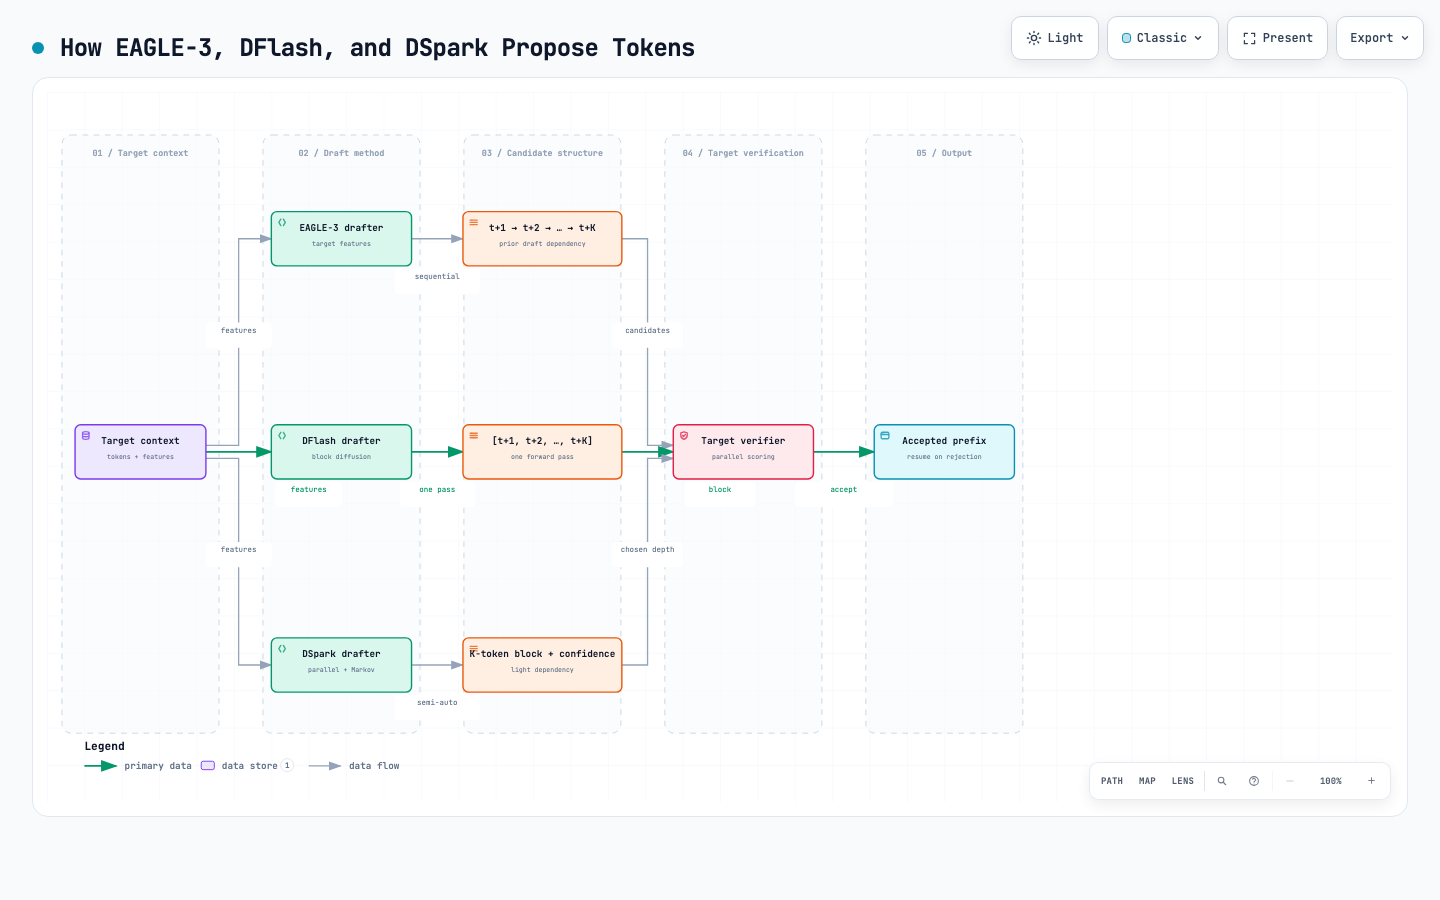
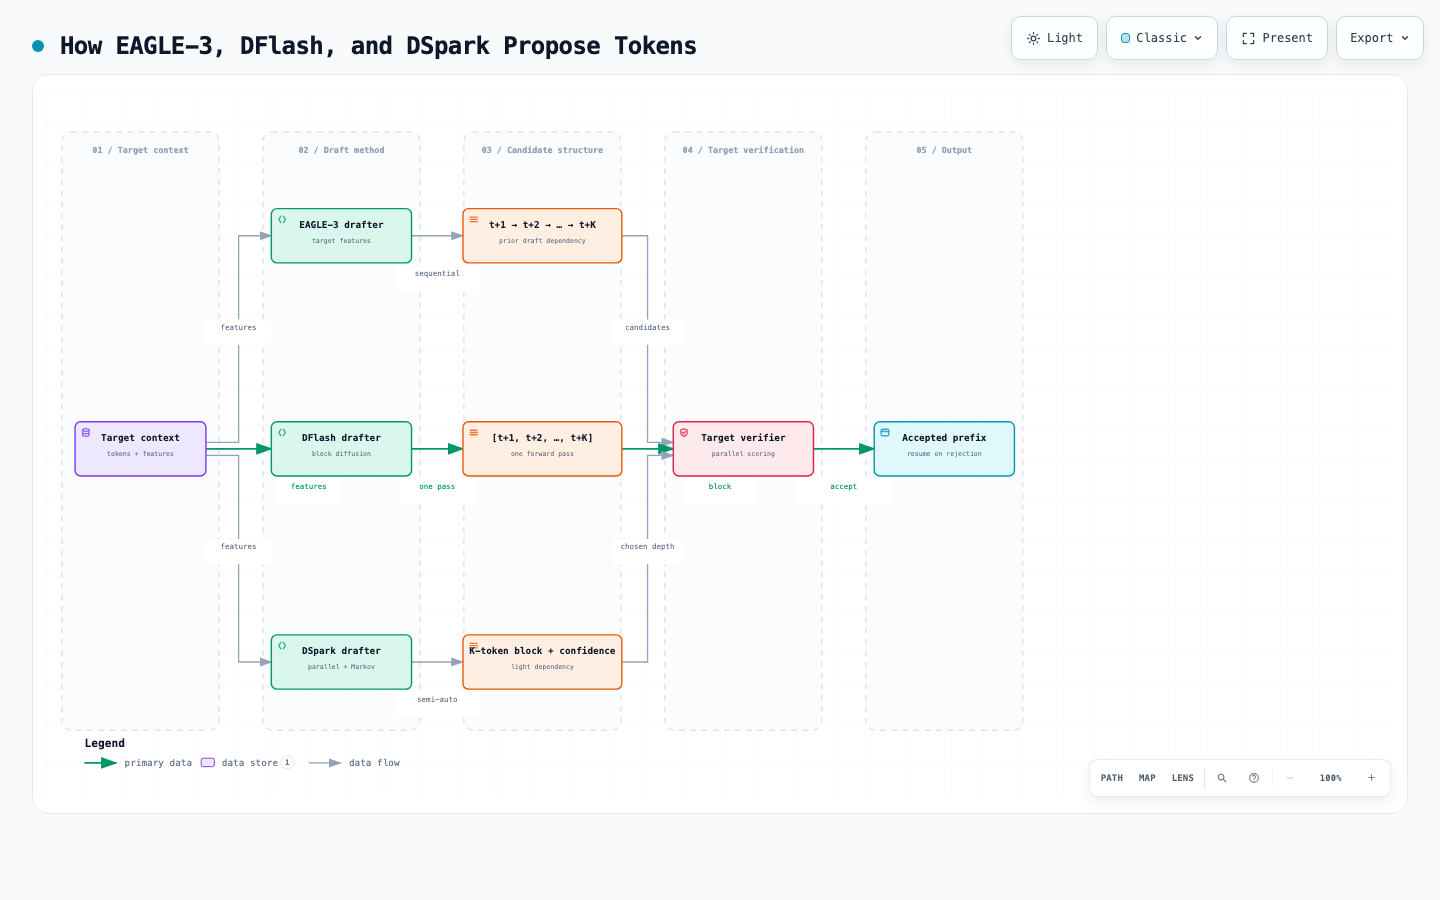
docs: add compact publication PNG for drafter comparison

diff --git a/docs/blog/specdec_dflash_dspark_technical_blog_submission.html b/docs/blog/specdec_dflash_dspark_technical_blog_submission.html
@@ -7,7 +7,7 @@
   <style>
     :root{--bg:#0d1117;--panel:#161b22;--panel2:#1f2630;--text:#e6edf3;--muted:#9da7b3;--line:#30363d;--green:#76b900;--green2:#b7df6b;--blue:#58a6ff;--amber:#d29922;--red:#f85149;--gray:#8b949e;--code:#0b0f14;--shadow:0 16px 44px rgba(0,0,0,.3)}
     @media(prefers-color-scheme:light){:root{--bg:#f6f8fa;--panel:#fff;--panel2:#f0f4f8;--text:#1f2328;--muted:#59636e;--line:#d0d7de;--green:#4f7f00;--green2:#466d08;--blue:#0969da;--amber:#9a6700;--red:#cf222e;--gray:#656d76;--code:#f6f8fa;--shadow:0 12px 35px rgba(31,35,40,.1)}}
-    *{box-sizing:border-box}html{scroll-behavior:smooth}body{margin:0;background:var(--bg);color:var(--text);font:16px/1.62 -apple-system,BlinkMacSystemFont,"Segoe UI",sans-serif}.wrap{max-width:980px;margin:auto;padding:28px 22px 80px}a{color:var(--blue)}h1{font-size:clamp(2rem,5vw,3.55rem);line-height:1.05;letter-spacing:-.045em;margin:.3em 0}h2{font-size:1.65rem;margin:2.2em 0 .7em;border-bottom:1px solid var(--line);padding-bottom:.35em}h3{font-size:1.18rem;margin:1.8em 0 .55em}h4{margin:1.35em 0 .35em}p{margin:.65em 0}.sub{color:var(--muted);font-size:.93rem}.kicker{color:var(--green2);font-weight:750;letter-spacing:.11em;text-transform:uppercase;font-size:.76rem}.hero{padding:42px 0 24px}.statusbar{display:flex;gap:8px;flex-wrap:wrap;margin:18px 0}.pill{border:1px solid var(--line);border-radius:999px;padding:5px 10px;font-size:.78rem;font-weight:700}.draft{color:var(--amber);border-color:color-mix(in srgb,var(--amber) 55%,var(--line))}.ready{color:var(--green2)}.pending{color:var(--amber)}.internal{color:var(--red)}.callout,.card{background:var(--panel);border:1px solid var(--line);border-radius:12px;padding:16px 18px;margin:15px 0;box-shadow:var(--shadow)}.callout{border-left:4px solid var(--green)}.warn{border-left-color:var(--amber)}.danger{border-left-color:var(--red)}.grid{display:grid;grid-template-columns:repeat(auto-fit,minmax(240px,1fr));gap:12px}.small{font-size:.86rem;color:var(--muted)}table{width:100%;border-collapse:collapse;margin:14px 0 22px;font-size:.88rem;display:block;overflow-x:auto}th,td{padding:9px 10px;border:1px solid var(--line);vertical-align:top;text-align:left}th{background:var(--panel2);white-space:nowrap}tr:nth-child(even) td{background:color-mix(in srgb,var(--panel) 70%,transparent)}code,pre{font-family:ui-monospace,SFMono-Regular,Menlo,monospace}code{background:var(--code);border:1px solid var(--line);border-radius:5px;padding:.1em .35em}pre{background:var(--code);border:1px solid var(--line);border-radius:10px;padding:14px;overflow:auto;font-size:.84rem}pre code{border:0;padding:0}.label{font-size:.72rem;text-transform:uppercase;letter-spacing:.08em;font-weight:800}.todo{color:var(--amber)}.ok{color:var(--green2)}.no{color:var(--red)}ul,ol{padding-left:1.3rem}li+li{margin-top:.32em}.asset{border-left:3px solid var(--blue)}.figure{background:var(--panel);border:1px solid var(--line);border-radius:14px;padding:14px;margin:20px 0}.figure svg{width:100%;height:auto;display:block}.caption{font-size:.85rem;color:var(--muted);margin-top:10px}.section-tag{display:inline-block;color:var(--green2);font-weight:800;font-size:.72rem;text-transform:uppercase;letter-spacing:.08em}.article{border-top:4px solid var(--green);margin-top:24px;padding-top:10px}.article-title{font-size:2rem;line-height:1.15;font-weight:800;letter-spacing:-.025em;margin:16px 0}.lede{font-size:1.12rem;color:color-mix(in srgb,var(--text) 88%,var(--muted))}.hl{background:color-mix(in srgb,var(--green) 12%,var(--panel));border:1px solid color-mix(in srgb,var(--green) 50%,var(--line));border-radius:12px;padding:16px 18px;margin:20px 0;font-weight:650}.split{display:grid;grid-template-columns:1fr 1fr;gap:14px}.check{list-style:none;padding:0}.check li{padding:7px 0 7px 25px;border-bottom:1px solid var(--line);position:relative}.check li:before{content:"□";position:absolute;left:2px;color:var(--amber);font-weight:900}.muted{color:var(--muted)}.footer{margin-top:48px;padding-top:18px;border-top:1px solid var(--line);color:var(--muted);font-size:.82rem}@media(max-width:680px){.split{grid-template-columns:1fr}.wrap{padding:20px 14px 60px}th,td{padding:7px}.hero{padding-top:24px}}@media print{body{background:#fff;color:#111}.wrap{max-width:none}.card,.callout,.figure{box-shadow:none;break-inside:avoid}a{color:#0645ad}.internal-only{break-before:page}}
+    *{box-sizing:border-box}html{scroll-behavior:smooth}body{margin:0;background:var(--bg);color:var(--text);font:16px/1.62 -apple-system,BlinkMacSystemFont,"Segoe UI",sans-serif}.wrap{max-width:980px;margin:auto;padding:28px 22px 80px}a{color:var(--blue)}h1{font-size:clamp(2rem,5vw,3.55rem);line-height:1.05;letter-spacing:-.045em;margin:.3em 0}h2{font-size:1.65rem;margin:2.2em 0 .7em;border-bottom:1px solid var(--line);padding-bottom:.35em}h3{font-size:1.18rem;margin:1.8em 0 .55em}h4{margin:1.35em 0 .35em}p{margin:.65em 0}.sub{color:var(--muted);font-size:.93rem}.kicker{color:var(--green2);font-weight:750;letter-spacing:.11em;text-transform:uppercase;font-size:.76rem}.hero{padding:42px 0 24px}.statusbar{display:flex;gap:8px;flex-wrap:wrap;margin:18px 0}.pill{border:1px solid var(--line);border-radius:999px;padding:5px 10px;font-size:.78rem;font-weight:700}.draft{color:var(--amber);border-color:color-mix(in srgb,var(--amber) 55%,var(--line))}.ready{color:var(--green2)}.pending{color:var(--amber)}.internal{color:var(--red)}.callout,.card{background:var(--panel);border:1px solid var(--line);border-radius:12px;padding:16px 18px;margin:15px 0;box-shadow:var(--shadow)}.callout{border-left:4px solid var(--green)}.warn{border-left-color:var(--amber)}.danger{border-left-color:var(--red)}.grid{display:grid;grid-template-columns:repeat(auto-fit,minmax(240px,1fr));gap:12px}.small{font-size:.86rem;color:var(--muted)}table{width:100%;border-collapse:collapse;margin:14px 0 22px;font-size:.88rem;display:block;overflow-x:auto}th,td{padding:9px 10px;border:1px solid var(--line);vertical-align:top;text-align:left}th{background:var(--panel2);white-space:nowrap}tr:nth-child(even) td{background:color-mix(in srgb,var(--panel) 70%,transparent)}code,pre{font-family:ui-monospace,SFMono-Regular,Menlo,monospace}code{background:var(--code);border:1px solid var(--line);border-radius:5px;padding:.1em .35em}pre{background:var(--code);border:1px solid var(--line);border-radius:10px;padding:14px;overflow:auto;font-size:.84rem}pre code{border:0;padding:0}.label{font-size:.72rem;text-transform:uppercase;letter-spacing:.08em;font-weight:800}.todo{color:var(--amber)}.ok{color:var(--green2)}.no{color:var(--red)}ul,ol{padding-left:1.3rem}li+li{margin-top:.32em}.asset{border-left:3px solid var(--blue)}.figure{background:var(--panel);border:1px solid var(--line);border-radius:14px;padding:14px;margin:20px 0}.figure img{width:100%;height:auto;display:block}.caption{font-size:.85rem;color:var(--muted);margin-top:10px}.section-tag{display:inline-block;color:var(--green2);font-weight:800;font-size:.72rem;text-transform:uppercase;letter-spacing:.08em}.article{border-top:4px solid var(--green);margin-top:24px;padding-top:10px}.article-title{font-size:2rem;line-height:1.15;font-weight:800;letter-spacing:-.025em;margin:16px 0}.lede{font-size:1.12rem;color:color-mix(in srgb,var(--text) 88%,var(--muted))}.hl{background:color-mix(in srgb,var(--green) 12%,var(--panel));border:1px solid color-mix(in srgb,var(--green) 50%,var(--line));border-radius:12px;padding:16px 18px;margin:20px 0;font-weight:650}.split{display:grid;grid-template-columns:1fr 1fr;gap:14px}.check{list-style:none;padding:0}.check li{padding:7px 0 7px 25px;border-bottom:1px solid var(--line);position:relative}.check li:before{content:"□";position:absolute;left:2px;color:var(--amber);font-weight:900}.muted{color:var(--muted)}.footer{margin-top:48px;padding-top:18px;border-top:1px solid var(--line);color:var(--muted);font-size:.82rem}@media(max-width:680px){.split{grid-template-columns:1fr}.wrap{padding:20px 14px 60px}th,td{padding:7px}.hero{padding-top:24px}}@media print{body{background:#fff;color:#111}.wrap{max-width:none}.card,.callout,.figure{box-shadow:none;break-inside:avoid}a{color:#0645ad}.internal-only{break-before:page}}
   </style>
 </head>
 <body>
@@ -110,28 +110,7 @@ maximum E2E speedup(s) = 1 / ((1 - p) + p / s)</code></pre>
     </tbody></table>
 
     <div class="figure">
-      <svg viewBox="0 0 920 380" role="img" aria-label="Three speculative drafter structures converge on a target verifier, while policy updates optionally refresh the drafter.">
-        <defs><marker id="arr" markerWidth="8" markerHeight="8" refX="7" refY="4" orient="auto"><path d="M0,0 L8,4 L0,8 z" fill="var(--gray)"/></marker></defs>
-        <rect x="15" y="18" width="890" height="344" rx="18" fill="var(--panel2)" stroke="var(--line)"/>
-        <text x="42" y="55" fill="var(--text)" font-size="18" font-weight="700">Candidate proposal</text>
-        <text x="695" y="55" fill="var(--text)" font-size="18" font-weight="700">Target verification</text>
-        <text x="44" y="101" fill="var(--green2)" font-weight="700">EAGLE-3</text>
-        <g fill="var(--panel)" stroke="var(--blue)"><rect x="145" y="78" width="54" height="35" rx="7"/><rect x="235" y="78" width="54" height="35" rx="7"/><rect x="325" y="78" width="54" height="35" rx="7"/></g>
-        <g stroke="var(--gray)" marker-end="url(#arr)"><path d="M200 96 H230"/><path d="M290 96 H320"/></g>
-        <text x="44" y="182" fill="var(--green2)" font-weight="700">DFlash</text>
-        <g fill="var(--panel)" stroke="var(--green)"><rect x="145" y="155" width="54" height="35" rx="7"/><rect x="210" y="155" width="54" height="35" rx="7"/><rect x="275" y="155" width="54" height="35" rx="7"/><rect x="340" y="155" width="54" height="35" rx="7"/></g>
-        <text x="165" y="218" fill="var(--muted)" font-size="13">one parallel block</text>
-        <text x="44" y="275" fill="var(--green2)" font-weight="700">DSpark</text>
-        <g fill="var(--panel)" stroke="var(--amber)"><rect x="145" y="248" width="54" height="35" rx="7"/><rect x="210" y="248" width="54" height="35" rx="7"/><rect x="275" y="248" width="54" height="35" rx="7"/><rect x="340" y="248" width="54" height="35" rx="7"/></g>
-        <path d="M173 292 C210 330 330 330 367 292" fill="none" stroke="var(--amber)" stroke-dasharray="5 5"/>
-        <text x="160" y="341" fill="var(--muted)" font-size="13">parallel backbone + light dependency path</text>
-        <g stroke="var(--gray)" marker-end="url(#arr)"><path d="M405 96 H675"/><path d="M405 173 H675"/><path d="M405 266 H675"/></g>
-        <text x="503" y="85" fill="var(--muted)" font-size="12">propose candidates</text><text x="503" y="162" fill="var(--muted)" font-size="12">propose block</text><text x="503" y="255" fill="var(--muted)" font-size="12">schedule prefix</text>
-        <rect x="682" y="79" width="184" height="207" rx="14" fill="var(--panel)" stroke="var(--green)" stroke-width="2"/>
-        <text x="718" y="130" fill="var(--text)" font-size="16" font-weight="700">Target policy</text><text x="713" y="165" fill="var(--muted)" font-size="13">verify candidates</text><text x="713" y="190" fill="var(--muted)" font-size="13">accept valid prefix</text>
-        <rect x="716" y="220" width="116" height="39" rx="8" fill="var(--green)"/><text x="740" y="245" fill="#071000" font-size="14" font-weight="800">accepted tokens</text>
-        <a href="https://github.com/vllm-project/vllm/blob/6e448d0ea9bf3d88d898b65449ca6dc2aec170ac/docs/features/speculative_decoding/dynamic_speculative_decoding.md#L14"><text x="704" y="319" fill="var(--blue)" font-size="12" text-decoration="underline">pinned runtime reference</text></a>
-      </svg>
+      <img src="figures/specdec_eagle3_dflash_dspark_concepts.png" alt="Five-stage diagram comparing EAGLE-3 autoregressive draft depth, DFlash one-pass parallel block prediction, and DSpark parallel block prediction with a lightweight Markov and confidence path; all three converge on one target verifier and accepted prefix.">
       <div class="caption"><strong>Figure 1.</strong> Different proposal dependencies converge on one target verifier. <a href="figures/specdec_eagle3_dflash_dspark_concepts.html">Open interactive Archify figure.</a></div>
     </div>
 

diff --git a/docs/blog/specdec_dflash_dspark_technical_blog_submission.md b/docs/blog/specdec_dflash_dspark_technical_blog_submission.md
@@ -132,6 +132,8 @@ The configured speculative-token value `K` also requires care. A recipe label do
 
 The final artwork will show a prompt entering a target-compatible drafter, a candidate block entering the target verifier, and accepted tokens returning to the RL trajectory. A second loop will show the evolving policy producing an optional drafter update and synchronized refit. The figure must distinguish work performed every rollout from work performed only at the selected update cadence.
 
+![EAGLE-3, DFlash, and DSpark proposal structures before shared target verification](figures/specdec_eagle3_dflash_dspark_concepts.png)
+
 [Open the interactive EAGLE-3, DFlash, and DSpark concept diagram](figures/specdec_eagle3_dflash_dspark_concepts.html). Its editable Archify specification is stored beside the HTML artifact.
 
 ### Why RL needs a drafter-update policy

diff --git a/docs/blog/figures/README.md b/docs/blog/figures/README.md
@@ -17,6 +17,7 @@
 
 - `specdec_eagle3_dflash_dspark_concepts.dataflow.json`: editable Archify source.
 - `specdec_eagle3_dflash_dspark_concepts.html`: self-contained interactive artifact with light/dark modes and SVG/PNG export.
+- `specdec_eagle3_dflash_dspark_concepts.png`: compact 1480 × 830 publication image without viewer controls.
 - `specdec_eagle3_dflash_dspark_concepts.visual-check.*`: automated viewport evidence used for visual review.
 
 Figure 1 teaches one invariant: all three methods use target verification as the correctness boundary. Their primary difference is the proposal path—autoregressive depth for EAGLE-3, one-pass block prediction for DFlash, and a parallel block with a lightweight predecessor/confidence path for DSpark.
